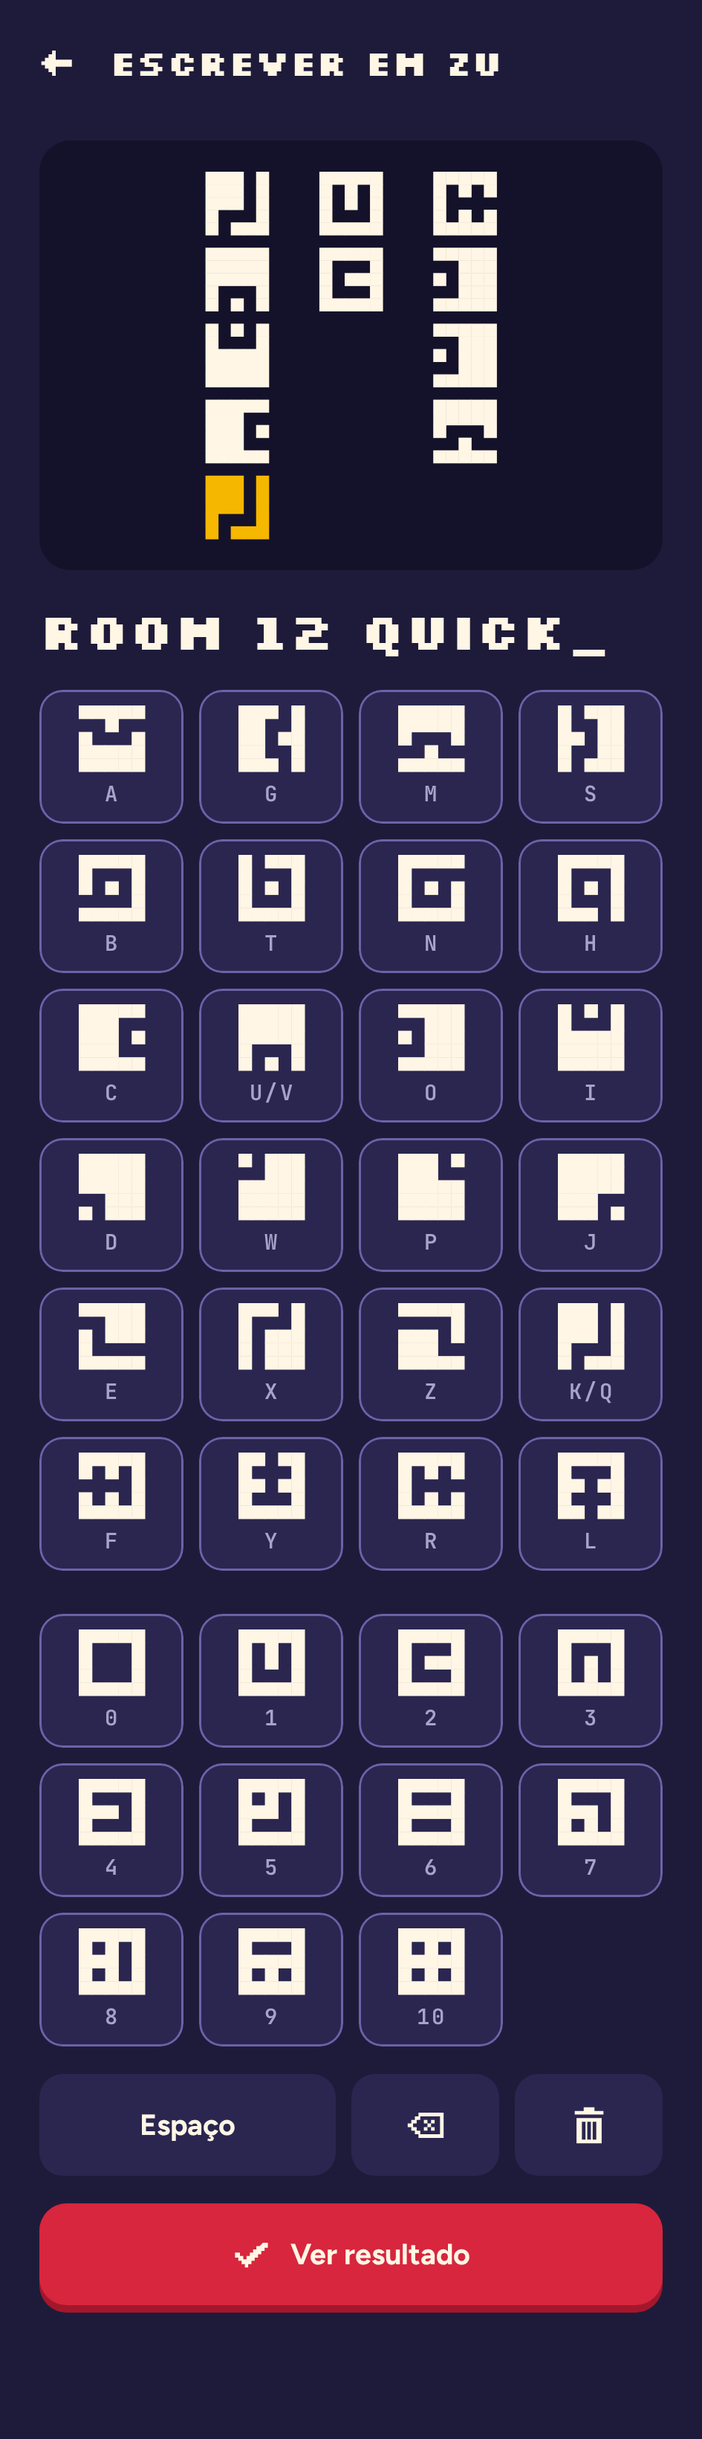
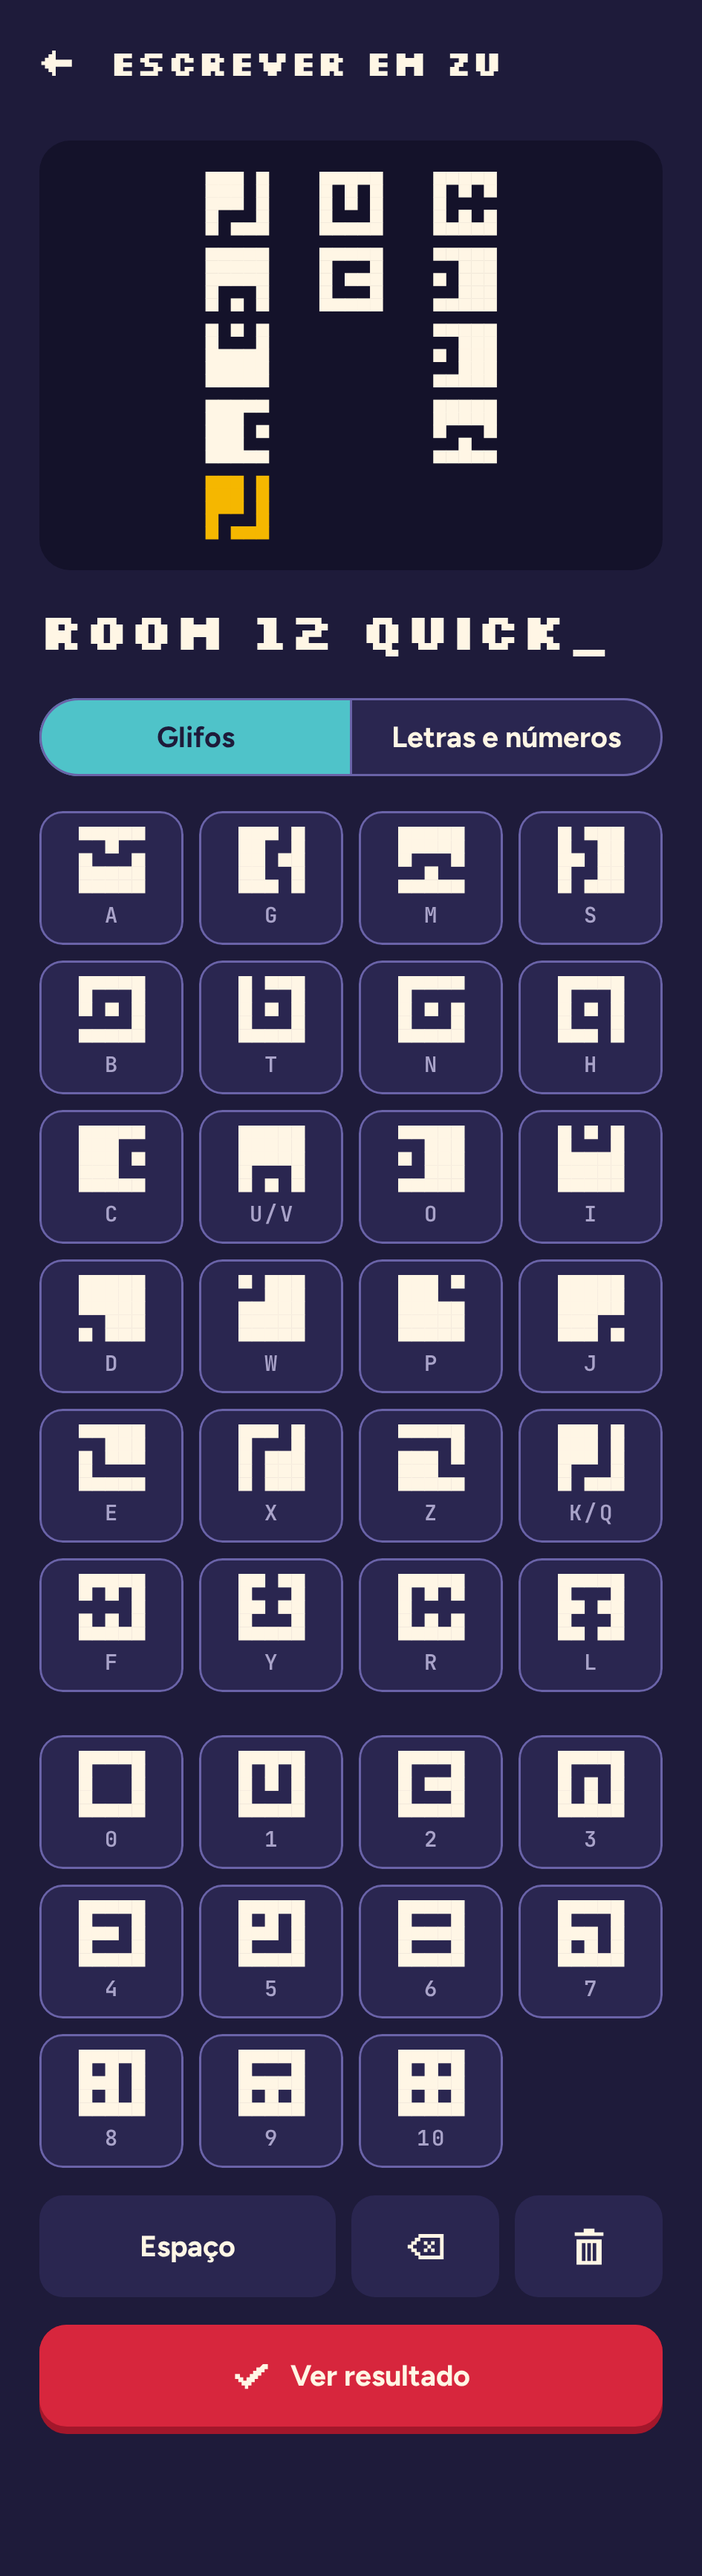
Write by hand: type by glyphs or by letters and numbers
Two ways to type: Glyphs (by drawing, one per glyph, numbers below;
K/Q and U/V decided by English context) or Letters and numbers (A-Z and
0-10, K and Q separate, each key shows its glyph). Glyph taps of the
shared glyphs are marked k/u until the context resolves them; letters
typed on the letter keyboard never change.

Claude-Session: https://claude.ai/code/session_01BCnJVnooueZi2qjpizvg1o

diff --git a/app/src/main/kotlin/com/davicolzer/zureader/ui/write/WriteScreen.kt b/app/src/main/kotlin/com/davicolzer/zureader/ui/write/WriteScreen.kt
@@ -23,6 +23,9 @@ import androidx.compose.material3.Icon
 import androidx.compose.material3.IconButton
 import androidx.compose.material3.MaterialTheme
 import androidx.compose.material3.Scaffold
+import androidx.compose.material3.SegmentedButton
+import androidx.compose.material3.SegmentedButtonDefaults
+import androidx.compose.material3.SingleChoiceSegmentedButtonRow
 import androidx.compose.material3.Text
 import androidx.compose.material3.TopAppBar
 import androidx.compose.material3.TopAppBarDefaults
@@ -55,6 +58,7 @@ import com.davicolzer.zureader.zu.ReadingMode
 import com.davicolzer.zureader.zu.SharedLetters
 import com.davicolzer.zureader.zu.ZuAlphabet
 import com.davicolzer.zureader.zu.ZuGlyph
+import com.davicolzer.zureader.zu.ZuMixed
 import com.davicolzer.zureader.zu.ZuNumerals
 
 /**
@@ -69,8 +73,10 @@ fun WriteScreen(
     direction: ReadingDirection,
     onDone: (String) -> Unit,
     onBack: () -> Unit,
+    startWithLetters: Boolean = false,
 ) {
     var text by rememberSaveable(draft) { mutableStateOf(draft) }
+    var byLetters by rememberSaveable { mutableStateOf(startWithLetters) }
 
     Scaffold(
         containerColor = MaterialTheme.colorScheme.background,
@@ -95,7 +101,7 @@ fun WriteScreen(
             verticalArrangement = Arrangement.spacedBy(14.dp),
         ) {
             // K/Q e U/V dividem o glifo: a letra vem do contexto do inglês e muda enquanto o usuário digita
-            val message = SharedLetters.resolve(ZuWriter.normalize(text))
+            val message = ZuWriter.normalize(SharedLetters.resolve(text))
             ZuPreview(message, direction)
             // texto em inglês, com cursor
             Text(
@@ -104,18 +110,53 @@ fun WriteScreen(
                 modifier = Modifier.fillMaxWidth().semantics { contentDescription = message },
             )
 
-            // Quem digita não sabe o que os glifos significam: o teclado é organizado pelo desenho.
-            // Letras: uma linha por forma, com as 4 rotações (K/Q e U/V numa tecla só); embaixo,
-            // os números na mesma grade. Um glifo de cada.
+            // Dois jeitos de digitar: pelos glifos (quem copia do jogo e não sabe o que significam)
+            // ou pelas letras e números (quem quer ver o próprio texto em Zu)
+            SingleChoiceSegmentedButtonRow(Modifier.fillMaxWidth()) {
+                listOf(false, true).forEachIndexed { i, letters ->
+                    SegmentedButton(
+                        selected = byLetters == letters,
+                        onClick = { byLetters = letters },
+                        shape = SegmentedButtonDefaults.itemShape(index = i, count = 2),
+                        icon = {},
+                        colors = SegmentedButtonDefaults.colors(
+                            activeContainerColor = MaterialTheme.colorScheme.tertiary,
+                            activeContentColor = MaterialTheme.colorScheme.onTertiary,
+                            inactiveContainerColor = MaterialTheme.colorScheme.surfaceContainer,
+                            inactiveContentColor = MaterialTheme.colorScheme.onSurface,
+                        ),
+                    ) {
+                        Text(stringResource(if (letters) R.string.write_by_letters else R.string.write_by_glyphs), style = MaterialTheme.typography.labelLarge)
+                    }
+                }
+            }
+
             val numbers = (('0'..'9').toList() + ReadingMode.TEN).map { ZuNumerals.glyphFor(it) }
-            val rows = ZuAlphabet.shapes + numbers.chunked(KEYS_PER_ROW)
-            Column(verticalArrangement = Arrangement.spacedBy(8.dp)) {
-                rows.forEachIndexed { r, row ->
-                    // um respiro entre as letras e os números
-                    if (r == ZuAlphabet.shapes.size) Spacer(Modifier.height(6.dp))
-                    Row(horizontalArrangement = Arrangement.spacedBy(8.dp)) {
-                        row.forEach { glyph -> GlyphKey(glyph, Modifier.weight(1f)) { text += glyph.primary } }
-                        repeat(KEYS_PER_ROW - row.size) { Spacer(Modifier.weight(1f)) }
+            if (!byLetters) {
+                // Glifos, organizados pelo desenho: uma linha por forma, com as 4 rotações (K/Q e
+                // U/V numa tecla só, letra decidida pelo inglês); embaixo, os números. Um de cada.
+                val rows = ZuAlphabet.shapes + numbers.chunked(GLYPHS_PER_ROW)
+                Column(verticalArrangement = Arrangement.spacedBy(8.dp)) {
+                    rows.forEachIndexed { r, row ->
+                        // um respiro entre as letras e os números
+                        if (r == ZuAlphabet.shapes.size) Spacer(Modifier.height(6.dp))
+                        Row(horizontalArrangement = Arrangement.spacedBy(8.dp)) {
+                            row.forEach { glyph -> GlyphKey(glyph, Modifier.weight(1f)) { text += SharedLetters.typed(glyph) } }
+                            repeat(GLYPHS_PER_ROW - row.size) { Spacer(Modifier.weight(1f)) }
+                        }
+                    }
+                }
+            } else {
+                // Letras de A a Z (K e Q separados: quem digita escolhe) e, embaixo, os números
+                val letters = ('A'..'Z').toList()
+                val numberSymbols = ('0'..'9').toList() + ReadingMode.TEN
+                Column(verticalArrangement = Arrangement.spacedBy(8.dp)) {
+                    (letters.chunked(LETTERS_PER_ROW) + listOf(emptyList()) + numberSymbols.chunked(LETTERS_PER_ROW)).forEach { row ->
+                        if (row.isEmpty()) { Spacer(Modifier.height(6.dp)); return@forEach }
+                        Row(horizontalArrangement = Arrangement.spacedBy(8.dp)) {
+                            row.forEach { symbol -> LetterKey(symbol, Modifier.weight(1f)) { text += symbol } }
+                            repeat(LETTERS_PER_ROW - row.size) { Spacer(Modifier.weight(1f)) }
+                        }
                     }
                 }
             }
@@ -138,7 +179,10 @@ fun WriteScreen(
 }
 
 /** As 4 rotações de cada forma numa linha. */
-private const val KEYS_PER_ROW = 4
+private const val GLYPHS_PER_ROW = 4
+
+/** Teclado de letras: 6 por linha. */
+private const val LETTERS_PER_ROW = 6
 
 /** A mensagem desenhada em Zu, ajustada ao quadro; o último glifo em dourado. */
 @Composable
@@ -205,6 +249,27 @@ private fun GlyphKey(glyph: ZuGlyph, modifier: Modifier, onClick: () -> Unit) {
     ) {
         MiniGlyph(glyph.pattern, MaterialTheme.colorScheme.onSurface, size = 34.dp)
         Text(label, style = MaterialTheme.typography.labelSmall, color = MaterialTheme.colorScheme.onSurfaceVariant)
+    }
+}
+
+/** Tecla de letra (ou número): a letra grande e, embaixo, o glifo dela em Zu. */
+@Composable
+private fun LetterKey(symbol: Char, modifier: Modifier, onClick: () -> Unit) {
+    val label = ReadingMode.MIXED.symbolLabel(symbol)
+    Column(
+        modifier
+            .heightIn(min = 64.dp)
+            .clip(RoundedCornerShape(12.dp))
+            .background(MaterialTheme.colorScheme.surfaceContainer)
+            .border(1.dp, MaterialTheme.colorScheme.outline, RoundedCornerShape(12.dp))
+            .clickable(role = Role.Button, onClickLabel = label, onClick = onClick)
+            .semantics { contentDescription = label }
+            .padding(vertical = 8.dp),
+        horizontalAlignment = Alignment.CenterHorizontally,
+        verticalArrangement = Arrangement.spacedBy(4.dp),
+    ) {
+        Text(label, style = MaterialTheme.typography.titleMedium, color = MaterialTheme.colorScheme.onSurface)
+        MiniGlyph(ZuMixed.glyphFor(symbol).pattern, MaterialTheme.colorScheme.onSurfaceVariant, size = 16.dp)
     }
 }
 

diff --git a/core/zu/src/main/kotlin/com/davicolzer/zureader/zu/SharedLetters.kt b/core/zu/src/main/kotlin/com/davicolzer/zureader/zu/SharedLetters.kt
@@ -1,18 +1,40 @@
 package com.davicolzer.zureader.zu
 
 /**
- * K/Q e U/V usam o mesmo glifo. Ao escrever à mão, o usuário toca no glifo e a letra é escolhida
- * pelo contexto do inglês, palavra por palavra, como na leitura de uma foto.
+ * K/Q e U/V usam o mesmo glifo. Ao escrever à mão pelos glifos, o usuário toca no glifo e a letra
+ * é escolhida pelo contexto do inglês, palavra por palavra, como na leitura de uma foto.
+ *
+ * No texto, o glifo tocado fica marcado como [K_OR_Q] / [U_OR_V] (minúsculas); letras maiúsculas
+ * foram escolhidas pelo usuário (teclado de letras) e não mudam.
  */
 object SharedLetters {
+    /** Glifo de K/Q tocado, ainda sem letra decidida. */
+    const val K_OR_Q = 'k'
+
+    /** Glifo de U/V tocado, ainda sem letra decidida. */
+    const val U_OR_V = 'u'
+
+    /** O que o teclado de glifos acrescenta ao tocar em [glyph]. */
+    fun typed(glyph: ZuGlyph): Char = when (glyph.letters) {
+        "KQ" -> K_OR_Q
+        "UV" -> U_OR_V
+        else -> glyph.primary
+    }
+
     /** Até tantas letras ambíguas numa palavra testa todas as combinações; acima, uma a uma. */
     private const val MAX_EXACT = 10
 
-    /** [text] com cada K/Q e U/V trocado pela letra mais provável no inglês (espaços mantidos). */
+    /** [text] com cada glifo de K/Q e U/V marcado trocado pela letra mais provável no inglês (espaços mantidos). */
     fun resolve(text: String): String = text.split(' ').joinToString(" ") { resolveWord(it) }
 
     private fun resolveWord(word: String): String {
-        val choices = word.map { c -> ZuAlphabet.glyphs.firstOrNull { c in it.letters }?.letters?.takeIf { it.length > 1 } ?: c.toString() }
+        val choices = word.map { c ->
+            when (c) {
+                K_OR_Q -> "KQ"
+                U_OR_V -> "UV"
+                else -> c.toString()
+            }
+        }
         val ambiguous = choices.indices.filter { choices[it].length > 1 }
         if (ambiguous.isEmpty()) return word
         if (ambiguous.size <= MAX_EXACT) {

diff --git a/core/zu/src/test/kotlin/com/davicolzer/zureader/zu/SharedLettersTest.kt b/core/zu/src/test/kotlin/com/davicolzer/zureader/zu/SharedLettersTest.kt
@@ -6,24 +6,33 @@ import org.junit.jupiter.api.Test
 class SharedLettersTest {
     @Test
     fun `escolhe K ou Q e U ou V pelo ingles`() {
-        // o teclado manda sempre a primeira letra do glifo (K, U)
-        assertEquals("THE QUICK BROWN FOX", SharedLetters.resolve("THE KUICK BROWN FOX"))
-        assertEquals("KEY", SharedLetters.resolve("KEY"))
-        assertEquals("JUMPS OVER THE LAZY DOG", SharedLetters.resolve("JUMPS OUER THE LAZY DOG"))
-        assertEquals("VERY QUIET", SharedLetters.resolve("UERY KUIET"))
-        assertEquals("UP", SharedLetters.resolve("UP"))
+        // o teclado de glifos marca o glifo de K/Q como 'k' e o de U/V como 'u'
+        assertEquals("THE QUICK BROWN FOX", SharedLetters.resolve("THE kuICk BROWN FOX"))
+        assertEquals("KEY", SharedLetters.resolve("kEY"))
+        assertEquals("JUMPS OVER THE LAZY DOG", SharedLetters.resolve("JuMPS OuER THE LAZY DOG"))
+        assertEquals("VERY QUIET", SharedLetters.resolve("uERY kuIET"))
+        assertEquals("UP", SharedLetters.resolve("uP"))
     }
 
     @Test
     fun `atualiza enquanto digita`() {
         // com uma letra só ainda não dá para saber; ao chegar o U, o K vira Q
-        assertEquals("QU", SharedLetters.resolve("KU"))
-        assertEquals("QUI", SharedLetters.resolve("KUI"))
+        assertEquals("QU", SharedLetters.resolve("ku"))
+        assertEquals("QUI", SharedLetters.resolve("kuI"))
     }
 
     @Test
     fun `sem letras ambiguas e com numeros fica igual`() {
         assertEquals("ROOM 12", SharedLetters.resolve("ROOM 12"))
         assertEquals("", SharedLetters.resolve(""))
+    }
+
+    @Test
+    fun `letra escolhida no teclado de letras nao muda`() {
+        // maiúsculas vieram do teclado de letras: o usuário quis exatamente isso
+        assertEquals("KUICK", SharedLetters.resolve("KUICK"))
+        assertEquals("QEY", SharedLetters.resolve("QEY"))
+        // misturado: só o glifo tocado é decidido pelo inglês
+        assertEquals("QUICK", SharedLetters.resolve("kUICK"))
     }
 }

diff --git a/docs/PLANO.md b/docs/PLANO.md
@@ -148,7 +148,7 @@ Fontes: **Silkscreen** (títulos e texto lido, pixel), **Figtree** (interface), 
 | **6b. Modelo treinado (opcional)** 🧪 | Testado: rede pequena (MLP 16×16 → 96 → 24 glifos + "não é glifo") treinada com numpy em ~93 mil recortes sintéticos degradados + glifos das paredes reais (gerador `GlyphNetDataGenerator`, script `tools/train_glyphnet.py`); 99,3% na validação. No leitor, ela resgatava glifos borrados e descartava lixo | **Não entrou no app**: nas lápides (fora do treino) o resultado oscilou — lápide 2 inteira subiu de 79% para 95%, mas as recortadas caíram (95% → 84% e 69% → 13%); restringir a correção a grades parecidas não deixou nenhuma variante melhor em todas as fotos. Retomar com mais fotos reais de lápides/pedra para treino |
 | **7. Tradução (opcional)** | ML Kit Translation EN → PT no aparelho, mostrando inglês e português | Só se o projeto decidir retomar a tradução |
 | **8. Números** ✅ | Seletor **Auto / Escrita / Números** (Auto é o padrão: lê em paralelo como escrita, como números e **misturado** — letras e números na mesma frase, ex.: "ROOM 12" —, uma thread por modo, e fica com a leitura de nota maior; a mista só vale com letras e números confiantes no mesmo bloco e letras iguais às da leitura só de escrita; nenhuma letra tem moldura completa e o par mais parecido, B e 0, difere em 2 quadradinhos) na tela inicial e na câmera (fica salvo). Modo números: 16 desenhos (0–10 e variantes de 3–7, todos com moldura e miolo 3×3), sem modelo do inglês, orientação da foto; resultado "3 10 7 / 1 2", correção com teclado 0–10; o modo fica salvo na leitura do histórico; exemplos aprendidos separados por modo | Testes: 16 desenhos distintos com moldura, cada um reconhecido; números em colunas, com ruído, em imagem com borrão/ruído/JPEG e colorida; modo escrita não devolve números; leitura salva guarda o modo (e as antigas abrem como escrita). Tabela real dos números do jogo (0–10, enviada pelo usuário) bate com os 16 desenhos e é lida inteira no modo Auto (`RealNumbersTest`). Placas da biblioteca (números encostados numa faixa em relevo): fatiadas de 4 em 4 blocos; recortadas, são lidas como números. **Falta**: gabarito dos dígitos dessas placas e leitura sem recorte |
-| **9. Escrever à mão (teclado Zu)** ✅ | **Terceira opção na tela inicial** ("Escrever à mão"), no mesmo nível de "Fotografar" e "Escolher da galeria". Teclado com os desenhos dos glifos, um de cada, organizado pelo desenho (quem digita não sabe o que os glifos significam): sem abas, as letras numa linha por forma com as 4 rotações lado a lado (`ZuAlphabet.shapes`), e embaixo os 11 números na mesma grade. K/Q e U/V numa tecla só, com a letra escolhida pelo contexto do inglês e atualizada enquanto o usuário digita, como na leitura de foto (`SharedLetters`), Espaço, Apagar e Limpar tudo; em cima, a mensagem em Zu em colunas (como no jogo, na direção de leitura escolhida, último glifo em dourado) e o texto em inglês. "Ver resultado" abre a tela de resultado (copiar, compartilhar, salvar no histórico, zoom); voltar reabre o teclado com o texto. A leitura é exata (`ZuWriter`): o texto montado vira a leitura sem passar pelo leitor de imagens | Testes: texto vira imagem e leitura exata (K/Q do usuário mantido; o leitor de imagens lê a mesma coisa na imagem gerada), números e misto, caixas em cima dos glifos desenhados, salvar e abrir igual. Capturas: [tela inicial](design/home-escrever-android.png), [teclado](design/escrever-vazio-android.png), [mensagem](design/escrever-texto-android.png), [resultado](design/escrever-resultado-android.png) |
+| **9. Escrever à mão (teclado Zu)** ✅ | **Terceira opção na tela inicial** ("Escrever à mão"), no mesmo nível de "Fotografar" e "Escolher da galeria". Dois jeitos de digitar: **Glifos** (para quem copia do jogo e não sabe o que os glifos significam: um de cada, organizados pelo desenho, uma linha por forma com as 4 rotações, `ZuAlphabet.shapes`, e os 11 números embaixo; K/Q e U/V numa tecla só, com a letra escolhida pelo contexto do inglês e atualizada enquanto digita, como na leitura de foto, `SharedLetters`) ou **Letras e números** (A–Z e 0–10, com K e Q separados; cada tecla mostra a letra e o glifo dela), Espaço, Apagar e Limpar tudo; em cima, a mensagem em Zu em colunas (como no jogo, na direção de leitura escolhida, último glifo em dourado) e o texto em inglês. "Ver resultado" abre a tela de resultado (copiar, compartilhar, salvar no histórico, zoom); voltar reabre o teclado com o texto. A leitura é exata (`ZuWriter`): o texto montado vira a leitura sem passar pelo leitor de imagens | Testes: texto vira imagem e leitura exata (K/Q do usuário mantido; o leitor de imagens lê a mesma coisa na imagem gerada), números e misto, caixas em cima dos glifos desenhados, salvar e abrir igual. Capturas: [tela inicial](design/home-escrever-android.png), [teclado](design/escrever-vazio-android.png), [glifos](design/escrever-texto-android.png), [letras e números](design/escrever-letras-android.png), [resultado](design/escrever-resultado-android.png) |
 
 ### Dados de teste
 
